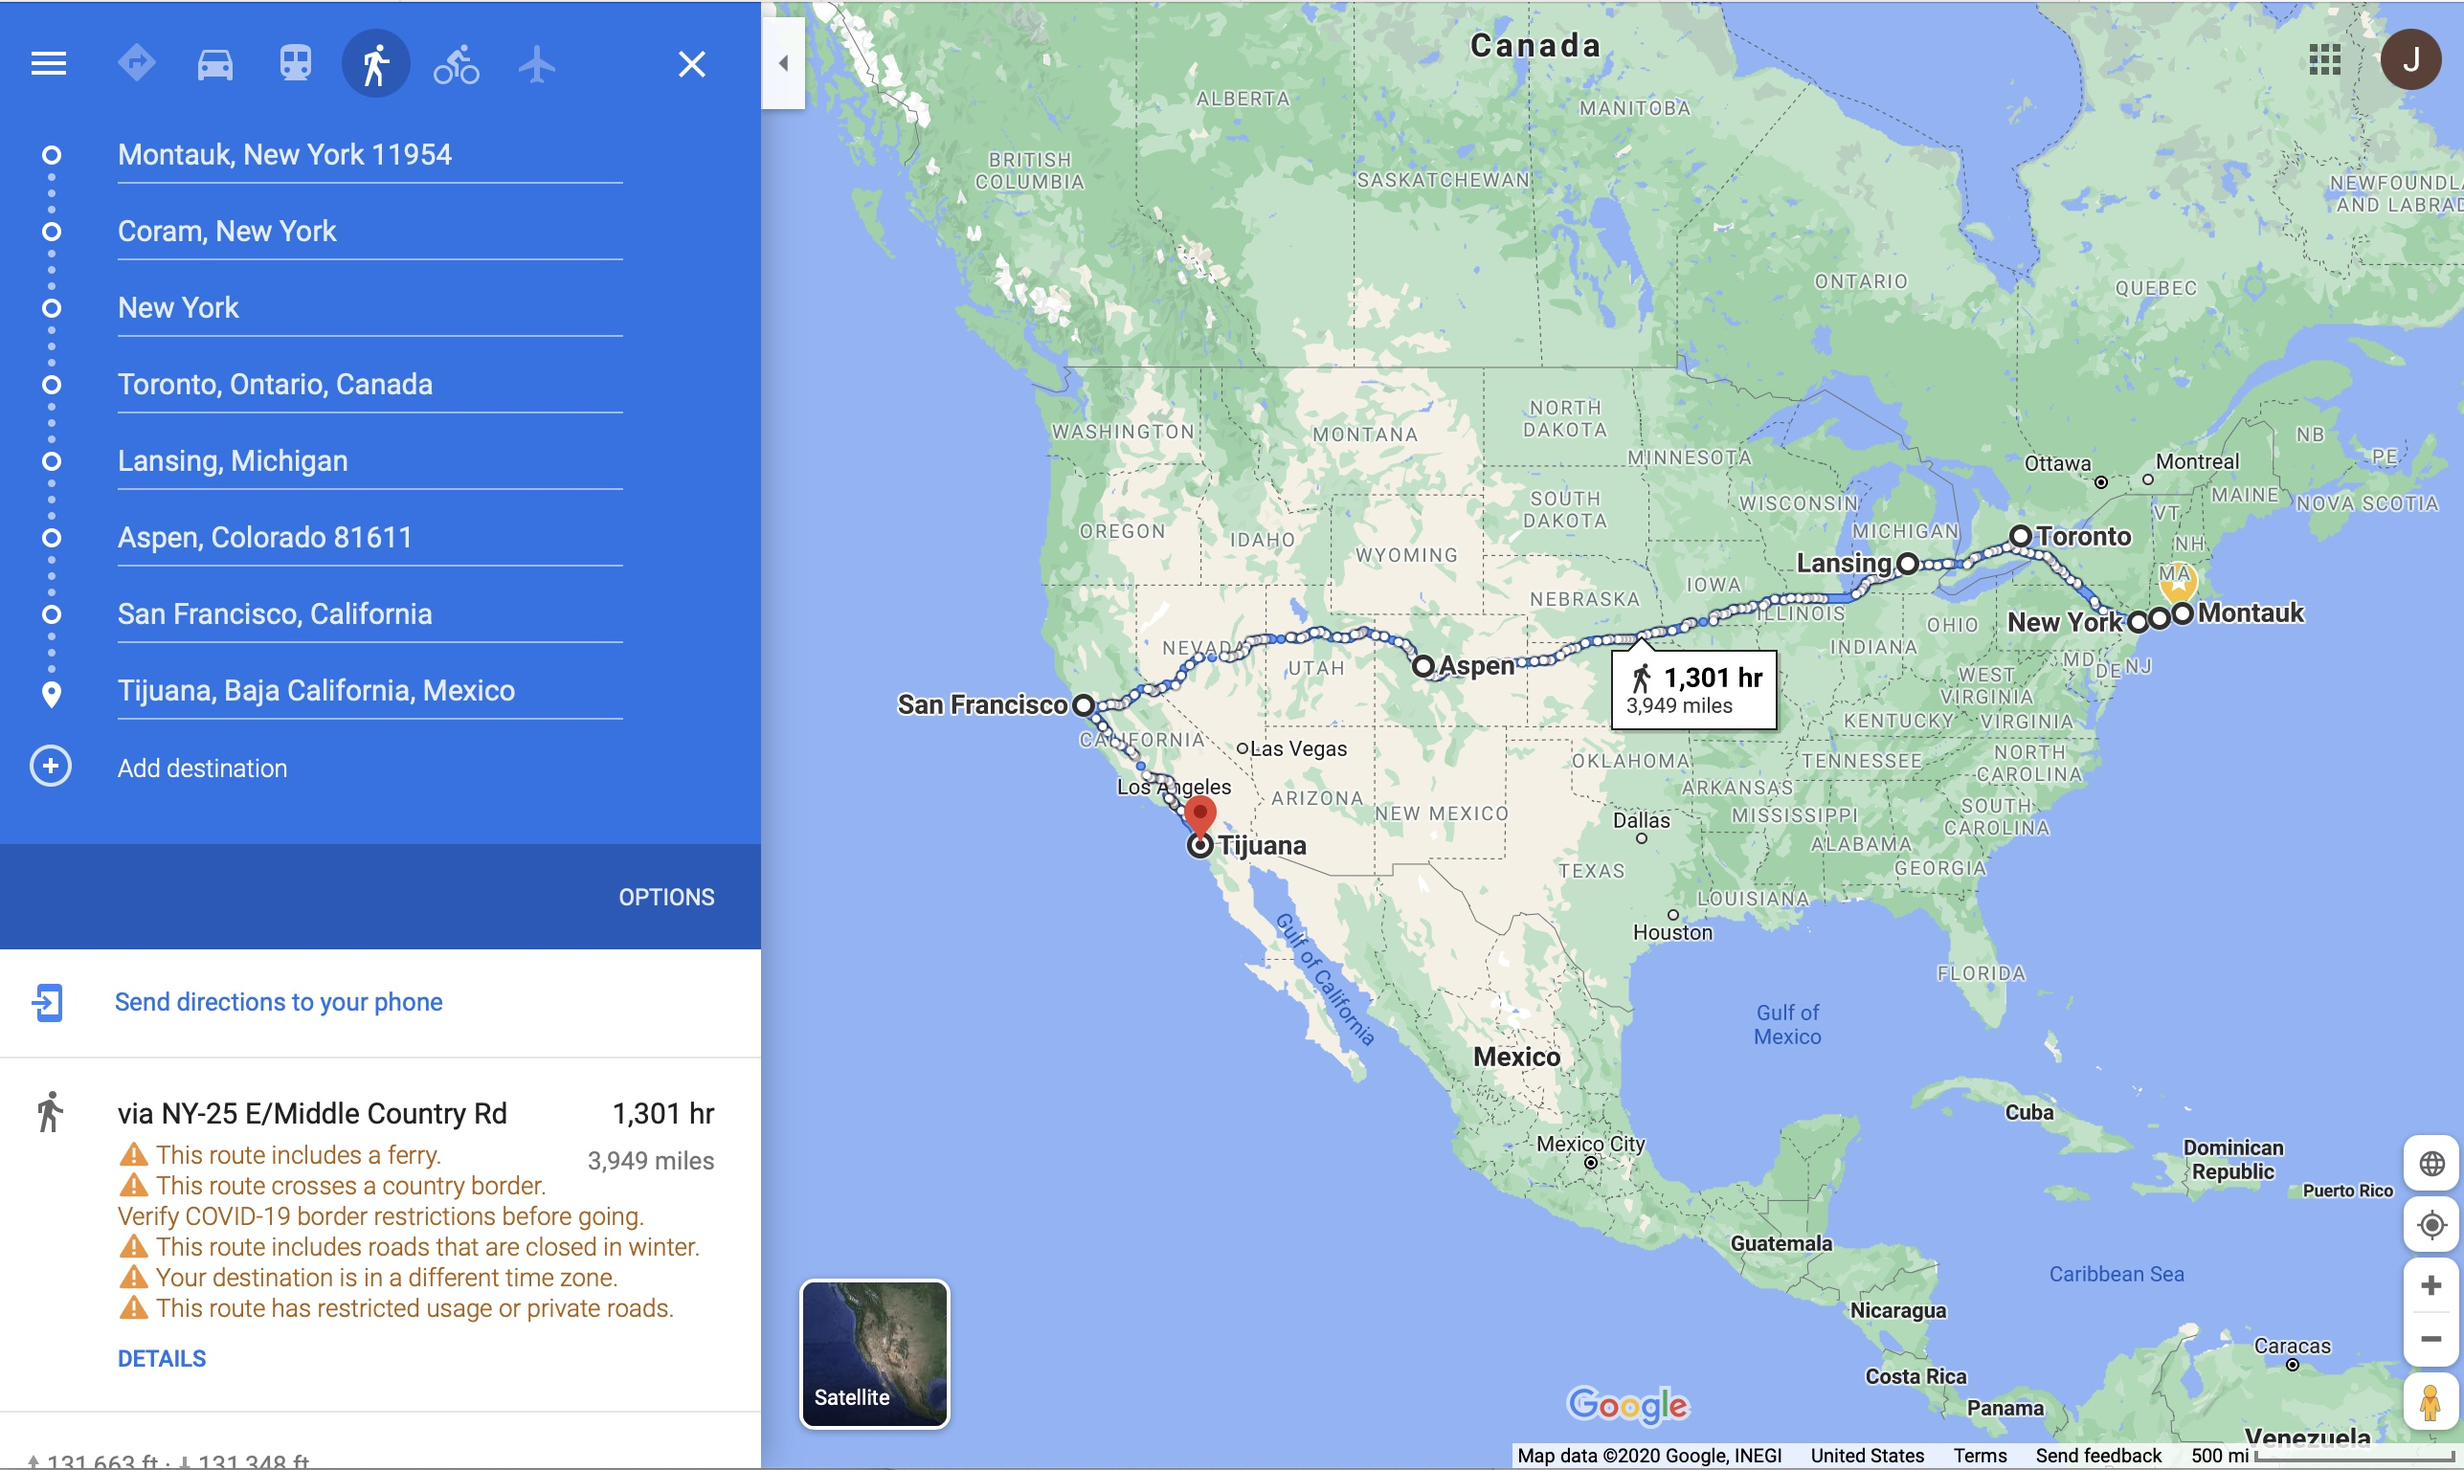
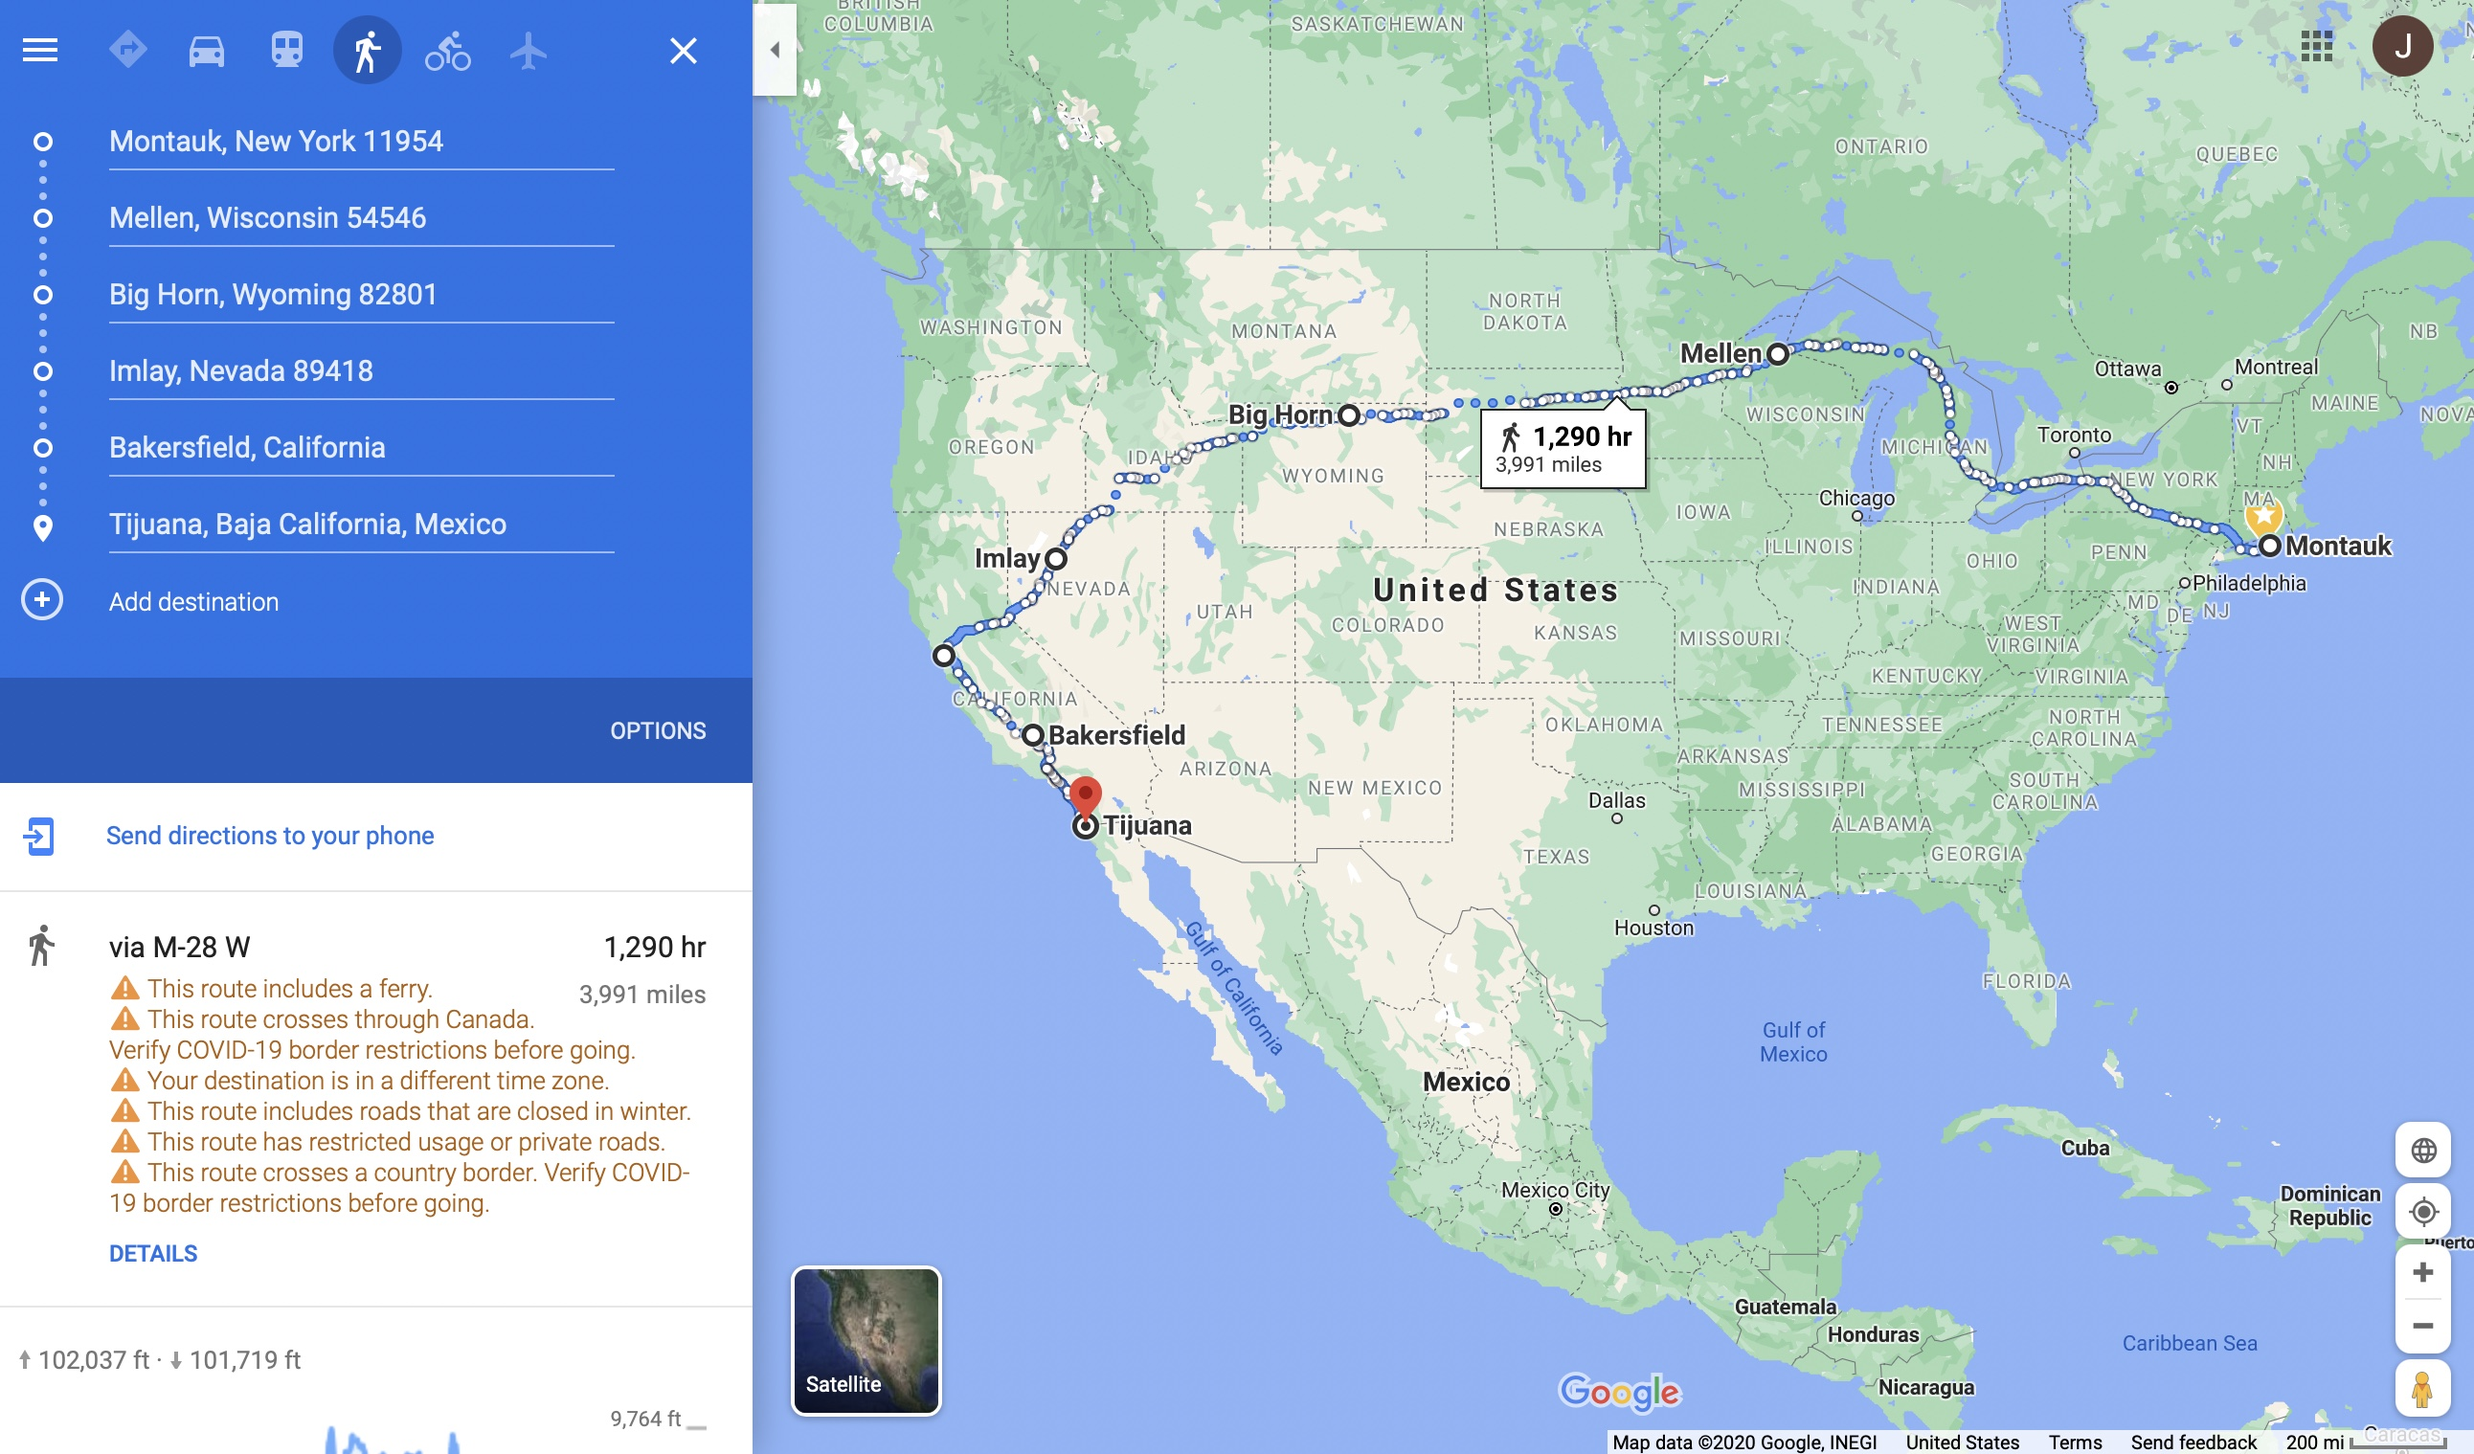
cleanup

diff --git a/index.html b/index.html
@@ -27,7 +27,9 @@
 		p {
 			font-size: 0.7em;
 		}
-
+		li {
+			font-size: 0.5em;
+		}
 		</style>
 	</head>
 	<body>
@@ -178,7 +180,7 @@
 					<div class="container">
 						<div class="col">
 <p>We really enjoyed our nights with Chip...it was hard to wake up and not be able to check on him or play with him.</p>
-<p>To help address this we enhanced the logger to summarize his overnight activity on our separate Raspi <a href="https://magicmirror.builders">Magic Mirror</a>.  It was a great way to confirm he was alive and had not gotten loose, while not disturbing his sleep, and it was fun to see if he had set a new personal best or not.</p>
+<p>To help address this we enhanced the logger to summarize his overnight activity on our separate Raspi <a href="https://magicmirror.builders">Magic Mirror</a>.  The mirror displays the time, weather, calendar, and bus status and it's a great way to start the day.  Adding "hamsterlytics" gave us a quick way to confirm he was alive and had not gotten loose, while not disturbing his sleep, and it was fun to see if he had set a new personal best or not.</p>
 						</div>
 						<div class="col">
 							<img src="./assets/mirror.jpeg">
@@ -206,7 +208,14 @@
 					<img src="./assets/hamsterlytics-miles-per-day.jpeg">
 				</section>				
 				<section>
-<p>Over the course of his life Chip ran about 4,008 mi.  This is quite a journey.  You could start at the Eastern tip of Long Island in Montauk.  Stop at Laurinda's in Corum, NY.  Visit New York City.  Head on to Canada with a stop in Toronto. Visit the Grandparents in Michigan.  Stop in Aspen, CO for a run on Soddbuster, which is the double black ski run that became Chip's middle name.  Finally on to California, and then ending in Tijuana, Mexico.  Quite a journey!</p>
+<p>Over the course of his life Chip ran about 4,008 mi, more than enough to run across the country.  Dividing his journey into fifths:</p>
+<ol>
+	<li>7.0 mi average, his most productive period, he traveled from Montauk across the entirety of NY, southern Ontario, Canada, both peninsulas of MI, and entered WI, pausing in Mellen</li>	
+	<li>5.2 mi average, finished WI, crossed MN and SD, and ended in Big Horn, WY</li>	
+	<li>4.5 mi average, finished WY, crossed ID, and ended in Imlay, NV</li>	
+	<li>3.9 mi average, finished NV, entered CA and swung out to San Francisco to complete the transcontinental journey, and ended in Bakersfield, CA</li>	
+	<li>1.5 mi average, progress is slower now, but continued south thru LA and San Diego, before crossing into Tijuana, Mexico</li>	
+</ol>
 					<img src="./assets/journey.jpeg">
 				</section>
 				<section>					
@@ -224,6 +233,7 @@
 				<section>
 					<h3>Thanks</h3>
 					<ul>
+						<li>Our ancestors, for encouraging us to use tools, and for the many pets we had as kids</li>
 						<li>The Maker Community and our Maker Day Friends</li>
 						<li>The <a href="https://www.raspberrypi.org">Raspberry Pi Foundation</a></li>
 						<li><a href="mailto:info@whitewolfrattery.com">Laurinda</a>, who runs <a href="https://whitewolfrattery.com">White Wolf Critters</a> in Corum, NY</li>
@@ -238,7 +248,8 @@
 						<li>To analyze the data we used <em>scp</em> to copy the data over wifi to our computers where we could analyze it with <em>pandas</em> and <em>jupyter</em></li>
 						<li>The code to display data on the Magic Mirror is <a href="https://github.com/jtwilloughby/jtwilloughby.github.io/blob/master/assets/write_for_mirror.py">here</a> and uses <a href="https://github.com/timdows/MMM-JsonGraph">this</a> module</li>
 						<li>Consider shopping at <a href="https://www.adafruit.com/product/3400">Adafruit</a></li>
-					</ul>				
+					</ul>
+					<p>Good luck!</p>				
 				</section>
 				<section>
 					<h3>🐹 Contact</h3>

diff --git a/README.md b/README.md
@@ -1,2 +1,13 @@
-# jtwilloughby.github.io
-Hamster Website
+# 🐹 [hamster.ninja](https://hamster.ninja)
+
+Our logging code is [here](https://github.com/jtwilloughby/jtwilloughby.github.io/blob/master/assets/wheel.py)
+
+Getting started with Raspi is all over the Internet, but you might start [here](https://www.jeffgeerling.com/blog/2017/raspberry-pi-zero-w-headless-time-lapse-camera")
+
+To analyze the data we used *scp* to copy the data over wifi to our computers where we could analyze it with *pandas* and *jupyter*
+
+The code to display data on the Magic Mirror is [here](https://github.com/jtwilloughby/jtwilloughby.github.io/blob/master/assets/write_for_mirror.py) and uses [this](https://github.com/timdows/MMM-JsonGraph) module
+
+Consider shopping at [Adafruit](https://www.adafruit.com/product/3400)
+
+Good luck!
